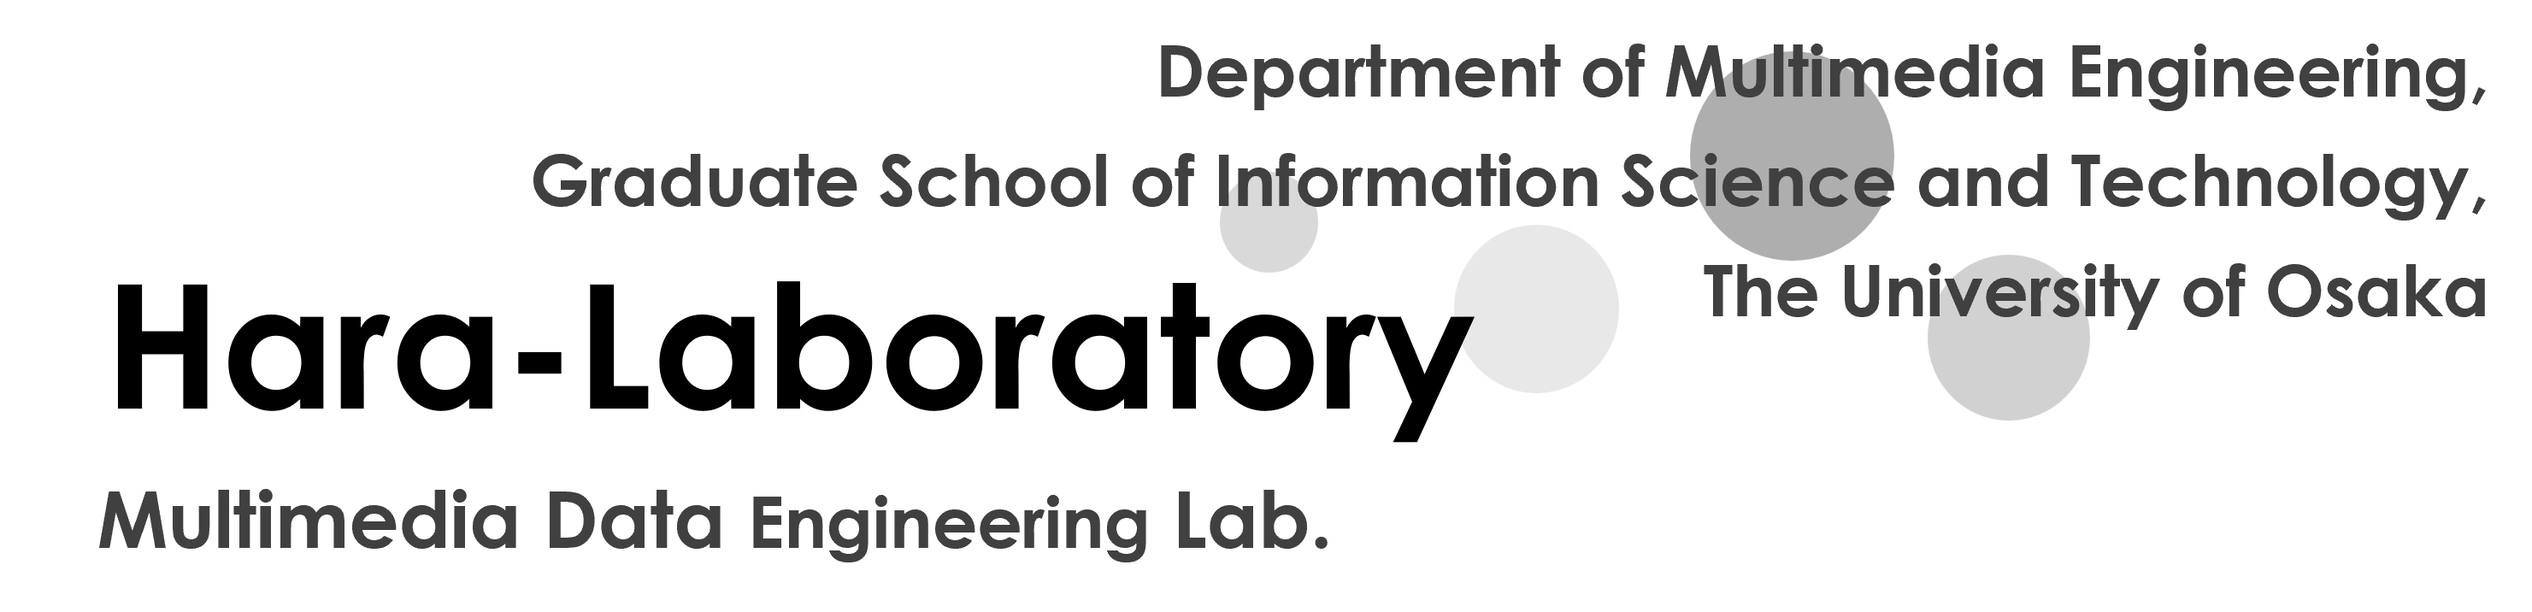
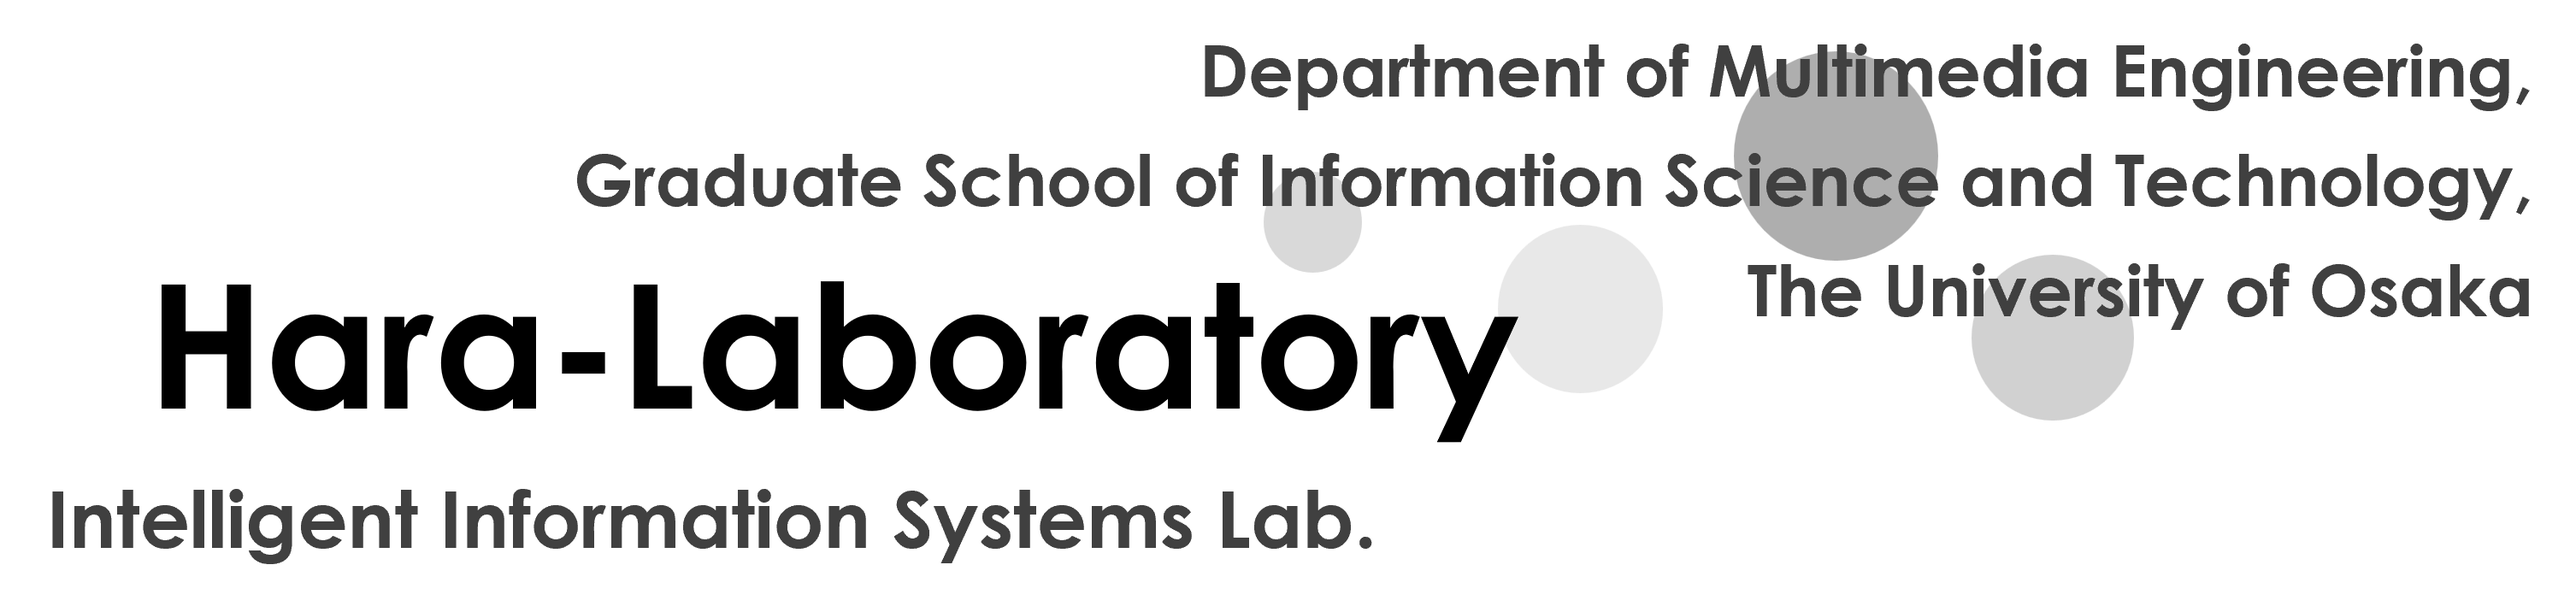
deploy: 67a6ee32f76ec2a8b07c758bfdd04d26374bf0c5

Changed region(s): [[0.1864, 0.0615, 0.9629, 0.6453], [0.0311, 0.4609, 0.5901, 0.7374], [0.0, 0.7989, 0.528, 0.9218]]

diff --git a/about/index.html b/about/index.html
@@ -611,7 +611,7 @@
 大阪大学大学院情報科学研究科 A棟2階 
 <br>
 マルチメディア工学専攻
-マルチメディアデータ工学講座（原研究室）</p>
+知能情報システム講座（原研究室）</p>
 <p>電話: 06-6879-4513</p>
 <h2 id="_3">地図<a class="headerlink" href="#_3" title="Permanent link">&para;</a></h2>
 <iframe src="https://www.google.com/maps/embed?pb=!1m14!1m8!1m3!1d11017.382558628558!2d135.5173330610837!3d34.81883526865758!3m2!1i1024!2i768!4f13.1!3m3!1m2!1s0x6000fb60db96a653%3A0x48238ab21a5a9975!2z5aSn6Ziq5aSn5a2m5aSn5a2m6Zmi5oOF5aCx56eR5a2m56CU56m256eR!5e0!3m2!1sja!2sjp!4v1608610025726!5m2!1sja!2sjp" width="800" height="600" frameborder="0" style="border:0;" allowfullscreen="" aria-hidden="false" tabindex="0"></iframe>

diff --git a/member-e/index.html b/member-e/index.html
@@ -966,6 +966,8 @@
 <h3 id="doctor-1st-year">Doctor 1st year<a class="headerlink" href="#doctor-1st-year" title="Permanent link">&para;</a></h3>
 <ul>
 <li>Keito Kido</li>
+<li>Duanyutian Zhou</li>
+<li>Xinning Du</li>
 </ul>
 <h3 id="master-2st-year">Master 2st year<a class="headerlink" href="#master-2st-year" title="Permanent link">&para;</a></h3>
 <ul>

diff --git a/member/index.html b/member/index.html
@@ -964,6 +964,8 @@
 <h3 id="1">博士課程1年<a class="headerlink" href="#1" title="Permanent link">&para;</a></h3>
 <ul>
 <li>木戸　渓人</li>
+<li>Duanyutian Zhou</li>
+<li>Xinning Du</li>
 </ul>
 <h3 id="2_1">修士課程2年<a class="headerlink" href="#2_1" title="Permanent link">&para;</a></h3>
 <ul>
